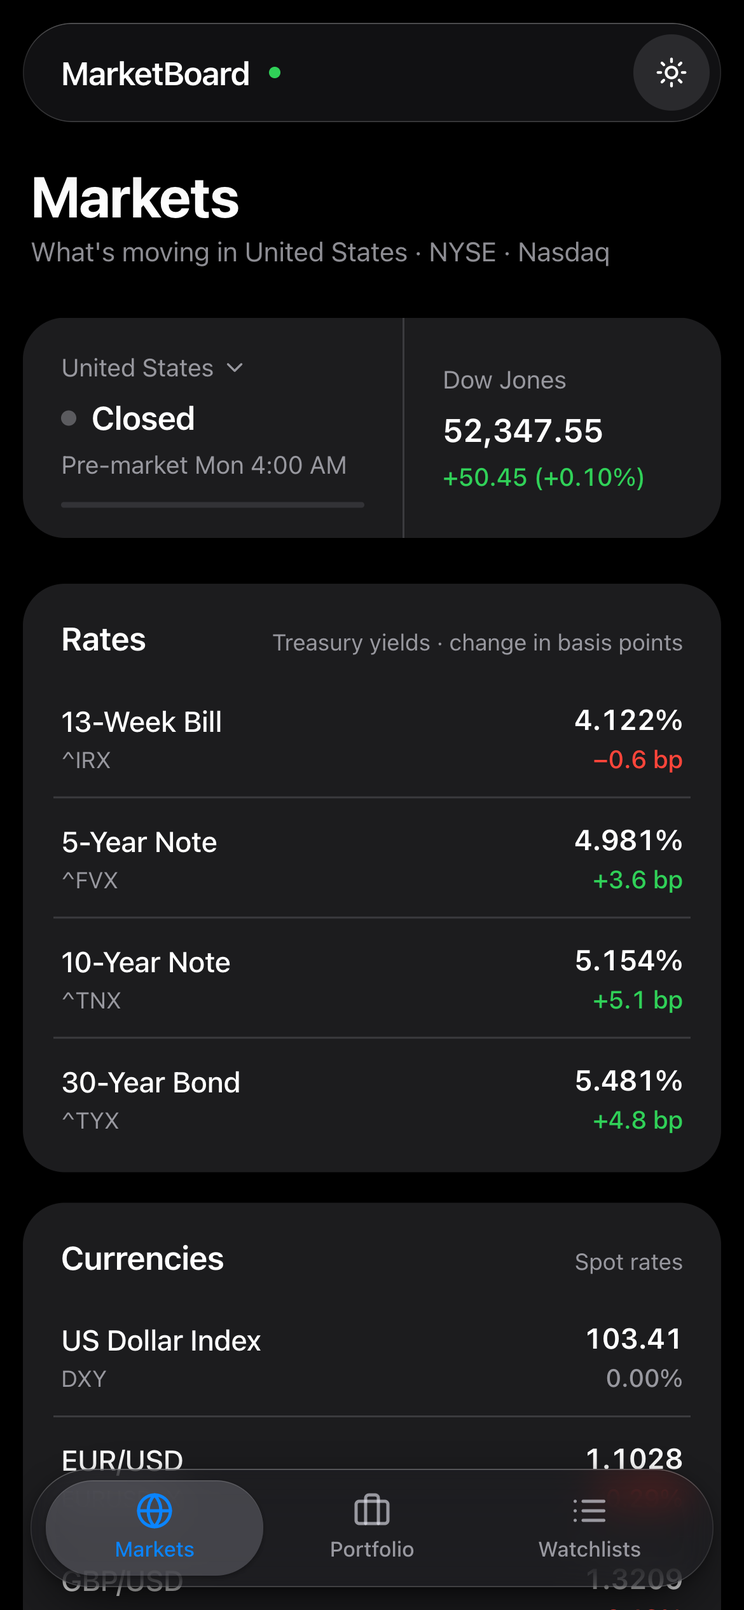
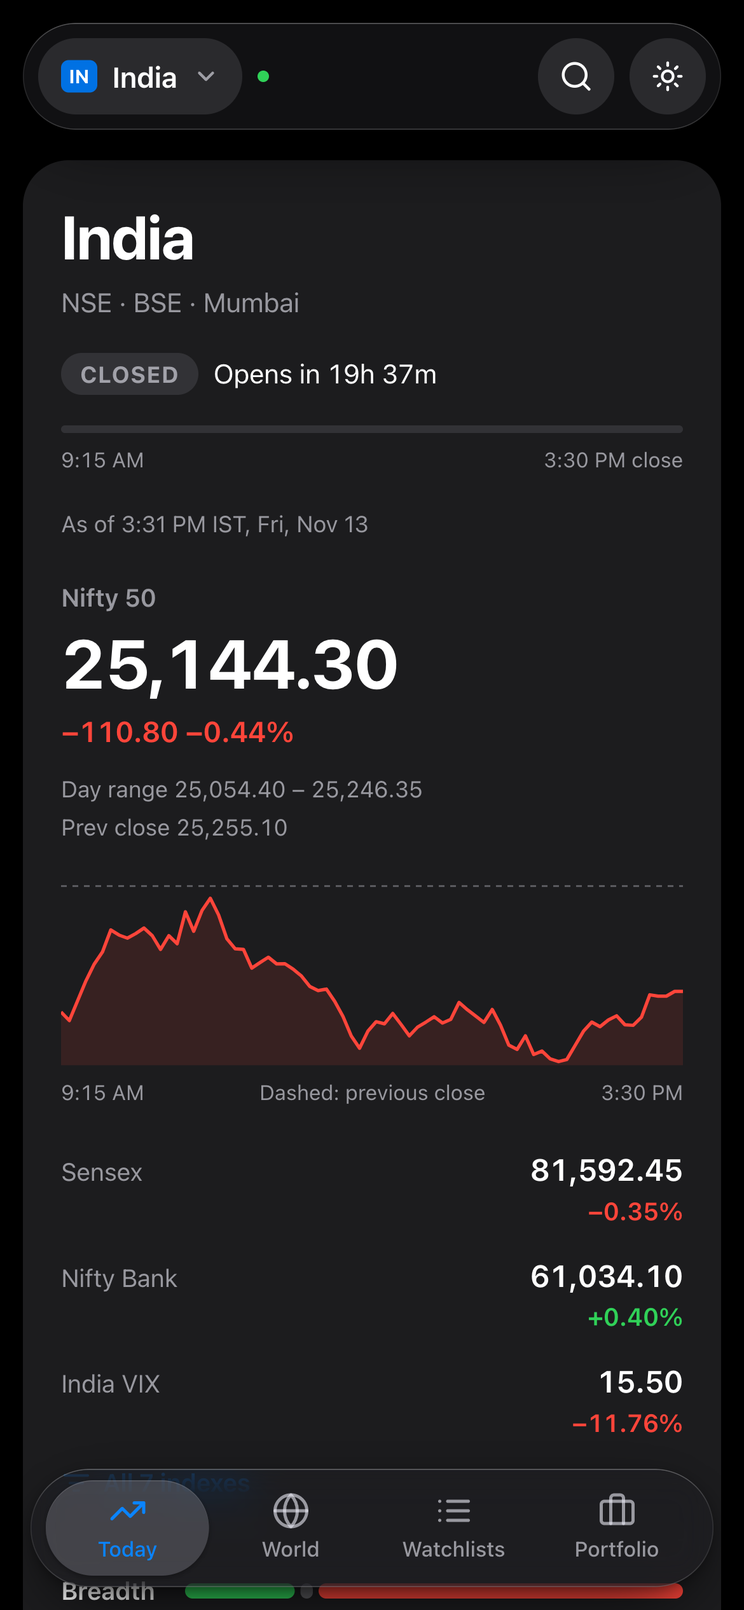
README, screenshots and link preview for the redesign
- README: features rewritten around the market lens, Today, World, Search,
  Watchlists and Portfolio; design notes; data sources, refresh rates, API
  (sparks) and project structure updated
- Screenshots retaken: Today (US dark, India light), World, Search,
  Watchlists, Portfolio in rupees, phone; index-picker and world-markets
  sheets removed
- Search results use short company names and clean tickers
- Link-preview image regenerated from the new India view

Changed region(s): [[0.0308, 0.0, 0.9846, 0.9984], [0.7692, 0.4368, 0.9231, 0.5616], [0.4308, 0.468, 0.5538, 0.4992]]

diff --git a/components/search.tsx b/components/search.tsx
@@ -9,7 +9,7 @@ import { useWorkspace } from "./workspace"
 import { useStoredString, writeStored } from "@/hooks/use-browser"
 import { fetchQuotes } from "@/lib/stock-data"
 import { exchangeName, marketForSymbol } from "@/lib/markets"
-import { formatMoney, formatPercent } from "@/lib/format"
+import { displaySymbol, formatMoney, formatPercent, shortName } from "@/lib/format"
 import type { Stock } from "@/lib/stock-types"
 import { cn } from "@/lib/utils"
 
@@ -158,9 +158,9 @@ export function SearchSheet({ open, onClose }: { open: boolean; onClose: () => v
               <button onClick={() => openResult(r)} className="flex min-w-0 flex-1 items-center gap-3 text-left outline-none focus-visible:ring-2 focus-visible:ring-tint/60">
                 {showingRecent && <Clock className="h-4 w-4 shrink-0 text-label-2" aria-hidden />}
                 <span className="flex min-w-0 flex-1 flex-col">
-                  <span className="truncate text-[15px] font-semibold">{r.name}</span>
+                  <span className="truncate text-[15px] font-semibold">{shortName(r.name)}</span>
                   <span className="truncate text-[12px] text-label-2">
-                    {r.symbol}
+                    {displaySymbol(r.symbol)}
                     {where ? ` · ${where}` : ""}
                   </span>
                 </span>

diff --git a/README.md b/README.md
@@ -2,117 +2,113 @@
 
 # MarketBoard
 
-A markets dashboard, portfolio tracker and watchlist app with an Apple-style Liquid Glass interface, built with Next.js. Pick any of 16 markets worldwide and the Markets page shows that country's indexes, currency, commodities, sectors and movers. Quotes, charts, index levels, rates, currencies, commodities, movers and ticker search come from Yahoo Finance through a small server route, so no API key is needed.
+A markets dashboard, portfolio tracker and watchlist app with an Apple-style Liquid Glass interface, built with Next.js. Pick any of 16 markets worldwide and the whole app looks through it: that country's indexes, session, sectors, movers, currency and commodities, with your portfolio valued in its currency. Quotes, charts, index levels, rates, currencies, commodities, movers and ticker search come from Yahoo Finance through a small server route, so no API key is needed.
 
 **Live:** [market-board-ecru.vercel.app](https://market-board-ecru.vercel.app)
 
-![Markets page in dark mode: sidebar navigation, US market status, index strip, Treasury yields and currencies](docs/screenshots/dark.png)
+![Today in dark mode for the United States: session and trading-hours bar, Dow Jones with its intraday line, S&P 500, Nasdaq and VIX, breadth, sectors ranked best to worst and movers](docs/screenshots/dark.png)
 
-![Watchlists page in light mode: a watchlist beside the AAPL intraday chart and fundamentals](docs/screenshots/light.png)
+![Today in light mode for India: Nifty 50 against its previous close, Sensex and India VIX, breadth, Nifty sectoral indexes and movers with value traded in rupee crore](docs/screenshots/india.png)
 
 ## Features
 
-A full-height glass sidebar switches between three sections and lists your watchlists, the way Music lists playlists. Hide it to an icon rail with the sidebar button or **⌃⌘S**; your choice is remembered. On medium-width screens it shows as the icon rail, and on phones it becomes a floating tab bar. Every symbol anywhere in the app opens its own page.
+Four destinations, **Today, World, Watchlists and Portfolio**, sit in a full-height glass sidebar on desktop (hide it to an icon rail with **⌃⌘S**) and in a floating glass tab bar on phones. The toolbar on every page carries the **market you're looking through**, **search** and the feed status. Every symbol anywhere opens its own page.
 
-### Markets
-Pick a market from the first tile and **the whole page follows it**. Switch to India and every card shows Indian data, priced in rupees. The choice is remembered and stays in sync across open tabs.
+### The market lens
+- **Pick a market once.** The button at the left of the toolbar lists all 16 markets with their local time and live session. Your choice drives Today, the Portfolio's currency and the symbol pages' breadcrumbs, is remembered, and stays in sync across tabs.
+- **Local conventions.** Prices use each currency's own digit grouping (India in lakhs: ₹3,66,244.91), large rupee amounts read in crore (₹400.5 cr, ₹12.41 lakh cr), and times carry the zone a desk would use (IST, EDT, AEDT).
 
-- **Market status and indexes.** The first tile shows whether a market is open, in pre-market, after hours, on a lunch break, closed or on holiday, with a countdown and a progress bar for the session. Tap it to see 16 markets worldwide with their local time and status, and pick one.
-  - **Holidays and early closes** are built in: "Holiday · Thanksgiving Day · Pre-market Fri 4:00 AM", "Early close in 1h 30m".
-  - **Countdowns skip holidays,** so on the Friday before Martin Luther King Jr. Day the US shows "Pre-market Tue 4:00 AM".
-  - **Indexes follow the market:** Dow Jones, S&P 500 and Nasdaq for the United States; Nifty 50 (NSE) and Sensex (BSE) for India; FTSE 100 for the UK; Nikkei 225 for Japan; and so on, 46 indexes in all. Tap **Add Index** to choose from that market's list and **×** to remove one, up to three. Each market remembers its own choice.
-- **Rates or benchmarks.** US Treasury yields (13-week, 5, 10 and 30-year) with changes in basis points for the United States. Every other market shows all of its main indexes here instead, because Yahoo carries no other government bond yields.
-- **Currencies.** The local currency against its main trading partners, written the way local desks quote them: USD/INR in India, EUR/USD in Germany, GBP/EUR in the UK, AUD/USD in Australia. The US also shows the dollar index.
-- **Commodities.** Six front-month futures picked for each economy: soybeans, coffee and sugar for Brazil; platinum and palladium for South Africa; lumber for Canada; Dutch TTF gas for Europe.
-  - **Priced in the local currency,** with the original US-dollar (or euro) price underneath, e.g. gold at ₹366,245 with $3,886.30 / troy oz below it.
-  - **The day's change includes the currency's move,** so gold up 0.03% in dollars with the rupee down 0.21% shows +0.24% in India.
-- **Crypto and volatility.** Bitcoin and Ethereum in the local currency, plus the local volatility index where one exists (VIX, India VIX, ASX VIX).
-- **Sectors.** A heatmap tinted by the size of today's move.
-  - **Official sector indexes or funds** for 8 markets: Select Sector SPDRs (US), Nifty sectoral indexes (India), S&P/ASX 200 sectors (Australia), TOPIX-17 ETFs (Japan), CSI sectors (China), Hang Seng sub-indexes (Hong Kong), B3 sector indexes (Brazil) and iShares TSX sector ETFs (Canada). Tap a tile to open it.
-  - **Computed for the other 8** (UK, Germany, France, Switzerland, Saudi Arabia, South Africa, South Korea, Singapore), where Yahoo has none: each sector's move is weighted by market cap across that market's largest listings, and the tile says how many stocks it covers.
-- **Movers.** Top gainers, top losers and most active.
-  - **United States:** Yahoo's screeners, refreshed every minute.
-  - **Other markets:** Yahoo's screeners only cover US listings, so the app ranks each market's 28–40 largest listings instead. Most active is measured by value traded, because share counts aren't comparable across price levels, and the header shows how many are up and how many are down.
+### Today
+One question per section, in the order a desk asks them:
+1. **How is my market doing?** One header card: open, pre-market, lunch, after hours, closed or holiday, with a countdown, a trading-hours bar and the as-of time; the main index large with its intraday line against a dashed previous close and the day's range; your other pinned indexes and the local volatility index (VIX, India VIX, ASX VIX); and **breadth**, how many of the market's largest listings are up and down.
+   - **Pin up to three indexes** from **All indexes**, 46 in all (Dow, S&P 500 and Nasdaq; Nifty 50, Sensex and Nifty Bank; FTSE 100; Nikkei 225; …). Each market remembers its own.
+   - **Holidays and early closes** are built in, and countdowns skip them ("Pre-market Tue 4:00 AM" before Martin Luther King Jr. Day).
+2. **What's moving?** Sectors ranked best to worst beside movers (Gainers, Losers, Most active) with company names and value traded.
+   - **Sectors** come from official indexes or funds in 8 markets (SPDRs, Nifty sectoral, S&P/ASX 200, TOPIX-17, CSI, Hang Seng, B3, iShares TSX) and are cap-weighted from the largest listings in the other 8.
+   - **Movers** come from Yahoo's screeners in the US; elsewhere the app ranks each market's 28–40 largest listings, and most active means value traded, since share counts aren't comparable across prices.
+3. **How is my list doing?** A strip of your watchlist with intraday sparklines.
+4. **What's the context?** One card with tabs: Rates (US Treasury yields in basis points), Currencies (quoted the way local desks write them: USD/INR, EUR/USD, GBP/EUR, AUD/USD), Commodities and Crypto. Commodities and crypto are **priced in the local currency** with the dollar price underneath, and the day's change includes the currency's own move (gold +0.03% in dollars shows +0.24% in rupees when the rupee falls 0.21%).
 
 <details>
 <summary><strong>What each market shows</strong></summary>
 
-| Market | Currency | First card | Commodities | Volatility | Sectors | Movers |
-| --- | --- | --- | --- | --- | --- | --- |
-| United States | USD | Treasury yields | WTI, Brent, natural gas, gold, silver, copper | VIX | Select Sector SPDRs (11) | Yahoo screeners |
-| Canada | CAD | 1 index | WTI, natural gas, gold, silver, copper, lumber | — | iShares TSX sector ETFs (8) | 34 large caps |
-| Brazil | BRL | 4 indexes | Brent, soybeans, coffee, sugar, corn, gold | — | B3 sector indexes (7) | 28 large caps |
-| United Kingdom | GBP | 2 indexes | Brent, Dutch TTF gas, gold, silver, copper, WTI | — | Computed | 35 large caps |
-| Germany | EUR | 4 indexes | Brent, Dutch TTF gas, gold, copper, aluminum, silver | — | Computed | 35 large caps |
-| France | EUR | 3 indexes | Brent, Dutch TTF gas, gold, wheat, copper, silver | — | Computed | 34 large caps |
-| Switzerland | CHF | 2 indexes | Gold, silver, platinum, Brent, Dutch TTF gas, copper | — | Computed | 31 large caps |
-| Saudi Arabia | SAR | 1 index | Brent, WTI, natural gas, gold, aluminum, copper | — | Computed | 31 large caps |
-| South Africa | ZAR | 2 indexes | Gold, platinum, palladium, Brent, copper, silver | — | Computed | 35 large caps |
-| India | INR | 7 indexes | Gold, silver, Brent, WTI, natural gas, copper | India VIX | Nifty sectoral indexes (12) | 40 large caps |
-| China | CNY | 3 indexes | Copper, gold, soybeans, Brent, aluminum, silver | — | CSI sector indexes (10) | 34 large caps |
-| Hong Kong | HKD | 2 indexes | Gold, Brent, copper, silver, WTI, natural gas | — | Hang Seng sub-indexes (4) | 36 large caps |
-| Japan | JPY | 1 index | Brent, WTI, natural gas, gold, copper, platinum | — | TOPIX-17 sector ETFs (17) | 40 large caps |
-| South Korea | KRW | 3 indexes | Brent, WTI, copper, gold, natural gas, aluminum | — | Computed | 37 large caps |
-| Singapore | SGD | 1 index | Brent, WTI, gold, natural gas, copper, silver | — | Computed | 29 large caps |
-| Australia | AUD | 3 indexes | Gold, copper, Brent, natural gas, wheat, silver | ASX VIX | S&P/ASX 200 sectors (11) | 39 large caps |
+| Market | Currency | Volatility | Sectors | Movers |
+| --- | --- | --- | --- | --- |
+| United States | USD | VIX | Select Sector SPDRs (11) | Yahoo screeners; breadth from 50 large caps |
+| Canada | CAD | — | iShares TSX sector ETFs (8) | 34 large caps |
+| Brazil | BRL | — | B3 sector indexes (7) | 28 large caps |
+| United Kingdom | GBP | — | Computed | 35 large caps |
+| Germany | EUR | — | Computed | 35 large caps |
+| France | EUR | — | Computed | 34 large caps |
+| Switzerland | CHF | — | Computed | 31 large caps |
+| Saudi Arabia | SAR | — | Computed | 31 large caps |
+| South Africa | ZAR | — | Computed | 35 large caps |
+| India | INR | India VIX | Nifty sectoral indexes (12) | 40 large caps |
+| China | CNY | — | CSI sector indexes (10) | 34 large caps |
+| Hong Kong | HKD | — | Hang Seng sub-indexes (4) | 36 large caps |
+| Japan | JPY | — | TOPIX-17 sector ETFs (17) | 40 large caps |
+| South Korea | KRW | — | Computed | 37 large caps |
+| Singapore | SGD | — | Computed | 29 large caps |
+| Australia | AUD | ASX VIX | S&P/ASX 200 sectors (11) | 39 large caps |
+
+Each market also has six commodities picked for its economy (soybeans, coffee and sugar for Brazil; platinum and palladium for South Africa; lumber for Canada; Dutch TTF gas for Europe) and its main currency pairs.
 
 </details>
 
-![Markets page in light mode with India selected: commodities and crypto priced in rupees with US-dollar prices beneath, India VIX, and the Nifty sector heatmap](docs/screenshots/india.png)
+### World
+All 16 markets in one table, grouped by region: session and next open, local time, main index, last, change and the last session's shape. Tiles above it answer the quick questions: how many are open, which opens next, how many were up and down, and the biggest move. Choosing a market makes it your lens and opens Today.
 
-<sub>India selected: gold, oil and Bitcoin in rupees with the dollar price underneath, and the NSE's own sector indexes.</sub>
-
-| Choose indexes | World market hours |
+| World | Search |
 | --- | --- |
-| ![United States Indexes sheet with Dow Jones and S&P 500 selected](docs/screenshots/index-picker.png) | ![World Markets sheet listing exchanges with live open/closed status](docs/screenshots/world-markets.png) |
+| ![World page in dark mode: tiles for open now, next to open, up and down, biggest move; the 16 markets grouped by region with session, local time, index, change and sparklines](docs/screenshots/world.png) | ![Search sheet over the Today page: results for hdfc with exchange, country, price and change](docs/screenshots/search.png) |
+
+### Search
+**⌘K** (or the search field) from any page finds stocks, ETFs and indexes on every exchange Yahoo covers, with exchange, country and live price. **Enter** opens the symbol page; **⌘Enter** or **+** adds it to your watchlist without leaving. Recent searches show when the field is empty.
+
+### Watchlists
+- **Your lists live here:** each with its count and today's up/down, plus **New list**, rename and delete.
+- **The list:** company names first, then ticker and exchange badge, an intraday sparkline, price in the stock's own currency and the day's change. Sort by your order, % change or name; filter; add any ticker; remove with × or Delete, with **Undo**.
+- **Detail:** the selected stock's chart and stats beside the list, with **Open page**.
+
+![Watchlists in light mode: your lists, the list with sparklines and exchange badges, and Apple's intraday chart with after-hours price and a new 52-week-high flag](docs/screenshots/light.png)
 
 ### Portfolio
-- **Positions.** Add holdings with shares and average cost; buying more of something you already hold merges into one position at the weighted average cost. Edit or remove a position (with **Undo**).
-- **Valuation in USD.**
-  - **Totals:** market value, day's P&L, total P&L and cost basis, per position and overall.
-  - **Currency conversion:** holdings in other currencies use live exchange rates. Day's P&L includes currency moves, and prices quoted in pence or other minor units are handled.
-  - **Missing data:** a holding with no quote or exchange rate is left out of the totals and flagged, never estimated.
-- **Allocation.** By holding, by sector and by currency, as ranked bars.
-- **Backup.** **Export** downloads your watchlists and portfolio as a JSON file; **Import** restores one after a confirmation.
+- **Valued in your market's currency** (INR when India is your lens), with a USD switch. Holdings in other currencies convert at live exchange rates; today's change includes currency moves; prices in pence or other minor units are handled.
+- **Three numbers on top:** value, today and total return on cost, with an allocation bar and currency exposure. **Holdings** and **Allocation** (by holding, sector and currency) are tabs.
+- **Positions:** add with shares and average cost; buying more of something you hold merges at the weighted average. Edit or remove with **Undo**. A holding with no quote or rate is flagged and left out of the totals, never estimated.
+- **Backup:** export your watchlists and portfolio as JSON, or import one, from the **⋯** menu.
 
-![Portfolio page with an example portfolio: summary tiles, holdings table with USD values and P&L, and allocation](docs/screenshots/portfolio.png)
+![Portfolio in light mode valued in rupees: value, today and total return, allocation bar, and holdings in their own currencies converted to INR](docs/screenshots/portfolio.png)
 
 <sub>The portfolio above is an example; prices and exchange rates are live.</sub>
 
-### Watchlists
-- **Multiple lists.** Create, rename, switch and delete named watchlists.
-- **The list.** Price and daily change for each symbol. Search it, add any ticker through Yahoo Finance autocomplete, or remove one with the × button that appears on hover (or the Delete key), with **Undo**.
-- **Detail view.** Selecting a symbol shows its full page beside the list.
-
 ### Symbol pages
-- **Chart.** A large price header, a 1D / 1W / 1M / 3M / 1Y / ALL range control, and a price chart with a time axis and volume bars. Moving the pointer across the chart shows the price, change and time at that point in the header, the way Apple's Stocks app does.
-  - **1D:** shows the latest regular trading session, with a dotted line at the official previous close.
-  - **Times:** all chart times are in the exchange's own time zone.
-- **Freshness.** Under the price you'll see when the quote is from and the market session, for example "As of 3:12 PM EST · Market open". If the quote falls behind during trading you'll see how far ("6 min behind"). Pre-market and after-hours prices appear when Yahoo has them.
-- **Fundamentals.** Open, high, low, previous close, volume, average volume, market cap, P/E, EPS, dividend yield and the 52-week range, all taken from the live quote.
-- **Actions.** **Add to Watchlist** and **Add to Portfolio** from any symbol page. Each symbol has its own link, e.g. `/symbol/AAPL`.
+- **Where it sits:** a breadcrumb to its market and sector, and **More in that sector** from the same market's largest listings.
+- **Chart:** a 1D / 1W / 1M / 3M / 1Y / ALL range control with volume bars; moving the pointer shows the price and time at that point, the way Apple's Stocks app does. 1D shows the latest session against a dotted previous close, in the exchange's time zone.
+- **Freshness:** "As of 3:28 PM IST · Market closed", how far a lagging quote is behind, and pre-market or after-hours prices when Yahoo has them. A new 52-week high or low is flagged.
+- **Fundamentals** from the live quote, and **Add to Watchlist** / **Add to Portfolio**. Each symbol has its own link, e.g. `/symbol/AAPL`.
 
 ### Throughout
-- **Light and dark appearance.** Follows your system setting on load. The sun/moon button switches it.
-- **Responsive layout.** Sidebar navigation on desktop; a floating glass tab bar on phones.
-- **Storage.** Watchlists, positions, and market and index choices are saved in this browser, and kept in sync across open tabs.
+- **Light and dark appearance**, following your system until you pick one.
+- **Phones:** a compact glass top bar (market, search, appearance) and a floating tab bar; every page fits without sideways scrolling, and pinch-zoom works.
+- **Storage:** watchlists, positions, your market and pinned indexes are saved in this browser and kept in sync across tabs.
 
 <p align="center">
-  <img src="docs/screenshots/mobile.png" alt="Markets page on a phone, with the floating glass tab bar" width="320" />
+  <img src="docs/screenshots/mobile.png" alt="Today on a phone for India in dark mode: market chip and search in the top bar, Nifty 50 with its intraday line, and the floating glass tab bar" width="320" />
 </p>
 
-<sub>Screenshots taken from the running app with live Yahoo Finance data on Saturday, November 14, 2026, so markets show as closed with Friday's closing prices.</sub>
+<sub>Screenshots taken from the running app with live Yahoo Finance data on Sunday, November 15, 2026: most markets show Friday's close, and Saudi Arabia, which trades on Sundays, is open.</sub>
 
 ## Design
 
-The interface follows Apple's Liquid Glass approach: content sits on a plain black or white background, and glass is used only for the floating layer of controls.
+The interface follows Apple's Liquid Glass approach: content sits on a plain background (black, or the grouped grey of iOS Settings in light mode) on solid cards, and glass is used only for the floating layer of controls.
 
-- **Layout like a macOS app.** The sidebar is a full-height floating glass pane carrying the app name and the sidebar toggle. The toolbar (feed status, clock and appearance) floats over the content area only, and content softens as it scrolls beneath it.
-- **Glass surfaces.** The sidebar, the toolbar, the phone tab bar, sheets and toasts are translucent with background blur, a thin highlight along the top edge and a soft shadow. Lists, charts and tables are plain content and never glass.
-- **Edge refraction.** In Chromium browsers (Chrome, Edge, Brave, Arc) the toolbar and the phone tab bar also bend the content scrolling beneath them at their rims. This uses an SVG displacement map applied with `backdrop-filter`. Safari and Firefox get the frosted blur without the bending.
-- **System palette.** Colors are Apple's system values for labels, separators, fills, green, red and blue, with separate light and dark sets.
-- **Motion.** Prices roll digit by digit when they change. The navigation, range control and watchlist selection slide between items on spring animations, and sheets grow out of the control that opened them.
-- **Accessibility.** Text and color-coded values meet WCAG AA contrast (4.5:1) in both appearances. Everything works by keyboard: arrow keys move through the chart ranges, Delete removes the focused watchlist row, and open sheets keep focus inside until closed.
+- **Glass for controls only.** The sidebar, the toolbar, the phone top bar and tab bar, segmented controls, sheets and toasts are translucent with background blur, a thin highlight along the top edge and a soft shadow. Numbers always sit on solid cards so they stay crisp.
+- **Edge refraction.** In Chromium browsers (Chrome, Edge, Brave, Arc) the toolbar and the phone tab bar also bend the content beneath them at their rims, using an SVG displacement map with `backdrop-filter`. Safari and Firefox get the frosted blur without the bending.
+- **Desk-grade numbers.** Tabular figures, right-aligned and always signed (+/−), so colour is never the only signal; provenance (source, delay, as-of time) on every screen.
+- **Calm by default.** No ticking seconds or pulsing; prices roll digit by digit only when they change, and selections slide on spring animations.
+- **System palette.** Apple's system colours for labels, separators, fills, green, red and blue, with separate light and dark sets.
+- **Accessibility.** Text and colour-coded values meet WCAG AA contrast (4.5:1) in both appearances. Everything works by keyboard: ⌘K search with arrow keys, arrow keys through chart ranges, Delete on a watchlist row, and open sheets keep focus inside until closed.
 
 ## Where the data comes from
 
@@ -132,16 +128,18 @@ All market data comes from Yahoo Finance through [`yahoo-finance2`](https://gith
 | Movers and computed sectors for other markets | **Computed** from live quotes for each market's largest listings |
 | Sector and country for portfolio allocation | Yahoo company profile, cached for a day |
 | Exchange rates for portfolio valuation | Live Yahoo FX quotes (`INRUSD=X`, `GBPUSD=X`, …) |
-| Ticker search | Live Yahoo search |
+| Intraday sparklines | Live Yahoo 1D chart, downsampled on the server for many symbols at once |
+| Breadth (up/down counts) | **Computed** from live quotes for each market's largest listings |
+| Ticker search | Live Yahoo search (stocks, ETFs and indexes) |
 | Market open/closed status | **Computed** from each exchange's hours and holiday rules, then **checked live** against Yahoo's session state for the market's main index |
 
 **The app never invents data.** If Yahoo can't be reached, the last real prices stay on screen unchanged and the toolbar says **Reconnecting** with the time of the last good update. If there is no data at all, prices show "—" and the toolbar says **Offline**. A chart with no data shows an empty state with a **Try Again** button.
 
 **Refresh rates.** Each of these is one batched request:
 - **Every 10 seconds:** watchlist, portfolio and symbol-page quotes, including the exchange rates the portfolio needs.
-- **Every 12 seconds:** index levels in the strip.
-- **Every 15 seconds:** rates or benchmarks, currencies, commodities, crypto, sectors and (outside the US) the large-cap quotes behind movers on the Markets page.
-- **Every minute:** US movers, live market status for all 16 markets, and the open 1D chart.
+- **Every 15 seconds:** on Today, indexes, currencies, commodities, crypto, sectors and the large-cap quotes behind breadth and movers.
+- **Every minute:** each market's main index on every page (for the market picker, World and live session status), US movers, the main index's intraday line and the open 1D chart.
+- **Every two minutes:** intraday sparklines on Today, World and Watchlists.
 - **Once a day:** company profiles (sector and country), cached on the server.
 
 The server caches results briefly, so several open tabs don't multiply the load on Yahoo. Refreshing slows down while the feed is failing and pauses while the tab is hidden.
@@ -194,63 +192,70 @@ The front end talks only to `GET /api/stocks`:
 | `?action=chart&symbol=AAPL&timeframe=1M` | Price and volume history for `1D`, `1W`, `1M`, `3M`, `1Y` or `ALL`, with the exchange's time zone |
 | `?action=movers` | Top 10 US gainers, losers and most active. Cached for a minute |
 | `?action=profiles&symbols=AAPL,SPY` | Sector, industry, country and instrument type. Cached for a day |
-| `?action=search&query=netflix` | Up to five matching stocks or ETFs |
+| `?action=sparks&symbols=AAPL,^NSEI` | The latest session's prices, downsampled for small charts, for up to 40 symbols in one call (from the 1D chart cache) |
+| `?action=search&query=netflix` | Up to eight matching stocks, ETFs or indexes |
 
 ## Adding or changing a market
 
-Everything the Markets page shows for a market lives in its entry in `lib/market-profiles.ts`; the page itself has no per-country code.
+Everything Today shows for a market lives in its entry in `lib/market-profiles.ts`; the page itself has no per-country code.
 
 1. **Exchange hours and status:** add the market to `MARKETS` in `lib/markets.ts` (and its holiday rules to `lib/holidays.ts` if they are predictable).
-2. **Indexes:** add its indexes to `INDEX_CATALOG` in `lib/indices.ts`. The first three are the defaults in the strip.
+2. **Indexes:** add its indexes to `INDEX_CATALOG` in `lib/indices.ts`. The first three are the default pinned indexes in the header.
 3. **Profile:** add an entry to `PROFILES` with:
    - `currency`: the ISO code everything is priced in
    - `fx`: counter currencies; pairs and their direction are built for you
    - `commodities`: six keys from `COMMODITIES`
    - `volatility` (optional): the local volatility index
    - `sectors` (optional): sector indexes or ETFs. Leave it out and sectors are computed from `largeCaps`, which then need a sector on each entry (use `tag()`)
-   - `largeCaps`: the movers universe, as tickers plus the Yahoo suffix (`.NS`, `.L`, `.T`, …). Keep it to 50 or fewer
+   - `largeCaps`: the universe for breadth, movers and same-sector peers, as tickers plus the Yahoo suffix (`.NS`, `.L`, `.T`, …), tagged with sectors via `tag()`. Keep it to 50 or fewer
 4. **Check every symbol** returns a live, current quote from `/api/stocks?action=quotes&symbols=…` before committing. Yahoo renames and drops tickers, and a missing one shows as "—" rather than an error.
 
 ## Project structure
 
 ```
 app/
-  layout.tsx              Root layout: wraps every page in the app shell
-  page.tsx                Markets
-  portfolio/page.tsx      Portfolio
+  layout.tsx              Root layout and link-preview metadata
+  page.tsx                Today
+  world/page.tsx          World
   watchlists/page.tsx     Watchlists
+  portfolio/page.tsx      Portfolio
   symbol/[symbol]/page.tsx  A page per symbol
-  api/stocks/route.ts     Yahoo Finance proxy: quotes, charts, movers, profiles, search
+  api/stocks/route.ts     Yahoo Finance proxy: quotes, charts, sparks, movers, profiles, search
   globals.css             Design tokens and the glass material
 components/
-  app-shell.tsx           Collapsible glass sidebar, page layout and phone tab bar
-  workspace.tsx           Shared state: watchlists, positions and feed health
-  market-context.tsx      The selected market, shared by the strip and the Markets page
-  markets-view.tsx        Markets page
-  portfolio-view.tsx      Portfolio page
+  app-shell.tsx           Glass sidebar, toolbar wiring (search, market picker, ⌘K) and phone tab bar
+  header.tsx              Desktop toolbar and phone top bar: market lens, search, feed status
+  market-context.tsx      The market lens and the shared feed of each market's main index
+  market-picker.tsx       Choose a market: local time and live session for all 16
+  search.tsx              ⌘K search: open a symbol or add it to a watchlist
+  markets-view.tsx        Today: header, sectors, movers, watchlist strip, context tabs
+  indexes-sheet.tsx       Every index for the market; pin up to three to the header
+  world-view.tsx          World: all markets in one table
+  watchlists-view.tsx     Watchlists: your lists, the list and the detail
+  watchlist-table.tsx     The list: sort, filter, add, select, remove
+  watchlists-sheet.tsx    Create, rename and delete watchlists
+  portfolio-view.tsx      Portfolio in the lens currency
   position-sheet.tsx      Add / edit a position
-  watchlists-view.tsx     Watchlists page
-  watchlists-sheet.tsx    Switch, create, rename and delete watchlists
-  watchlist-table.tsx     The watchlist: search, add, select, remove
-  symbol-view.tsx         Symbol page
+  symbol-view.tsx         Symbol page: breadcrumb, details, same-sector peers
   stock-details.tsx       Price header, range control, chart, fundamentals
-  market-bar.tsx          Market-status tile, index strip and their pickers
-  header.tsx              Floating glass toolbar (desktop) and top bar (phone)
+  segmented.tsx           Segmented control with a sliding glass thumb
+  sparkline.tsx           Small session chart against the previous close
   liquid-glass.tsx        Glass surface, edge refraction, rolling numbers, change pill
   sheet.tsx               Glass sheet used for pickers and forms
 hooks/
   use-poll.ts             Polling with back-off that pauses in hidden tabs
   use-quotes.ts           Batched live quotes for any set of symbols
+  use-sparks.ts           Batched intraday sparklines
   use-browser.ts          Hydration-safe browser state: saved choices, media queries, the clock
 lib/
   storage.ts              Browser storage, migration and backup files
-  portfolio.ts            Portfolio valuation in USD and allocation
+  portfolio.ts            Portfolio valuation in any base currency, and allocation
   indices.ts              Indexes for each market, with their exchange
   market-profiles.ts      Per-market currency, FX pairs, commodities, sectors and large caps
-  markets.ts              Exchange hours and the open/closed status logic
+  markets.ts              Exchange hours, open/closed status, zone names, symbol → market
   holidays.ts             Holiday and early-close calendars computed from exchange rules
-  stock-data.ts           Client fetch helpers (quotes, charts, movers, profiles)
-  format.ts               Price, money and time formatting per currency and time zone
+  stock-data.ts           Client fetch helpers (quotes, charts, sparks, movers, profiles)
+  format.ts               Prices, money and times per currency and local convention
   stock-types.ts
 ```
 
